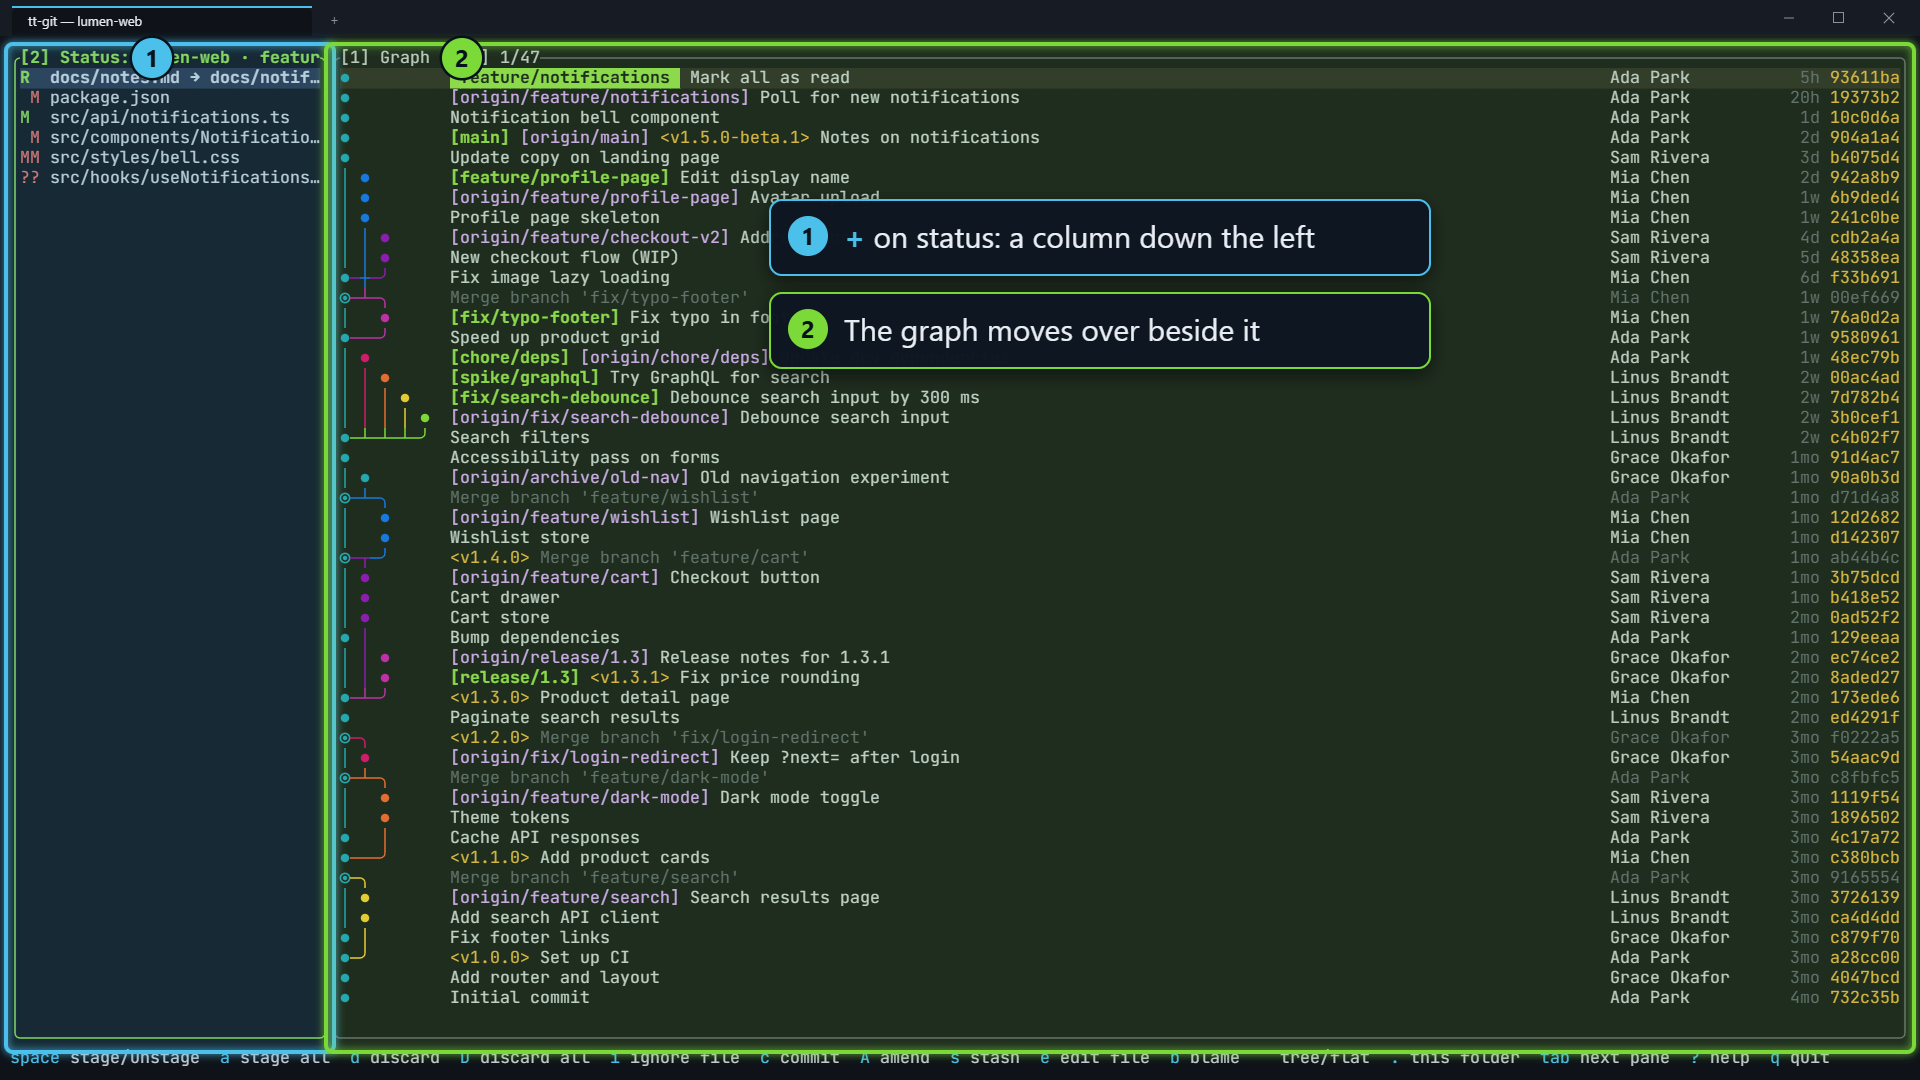
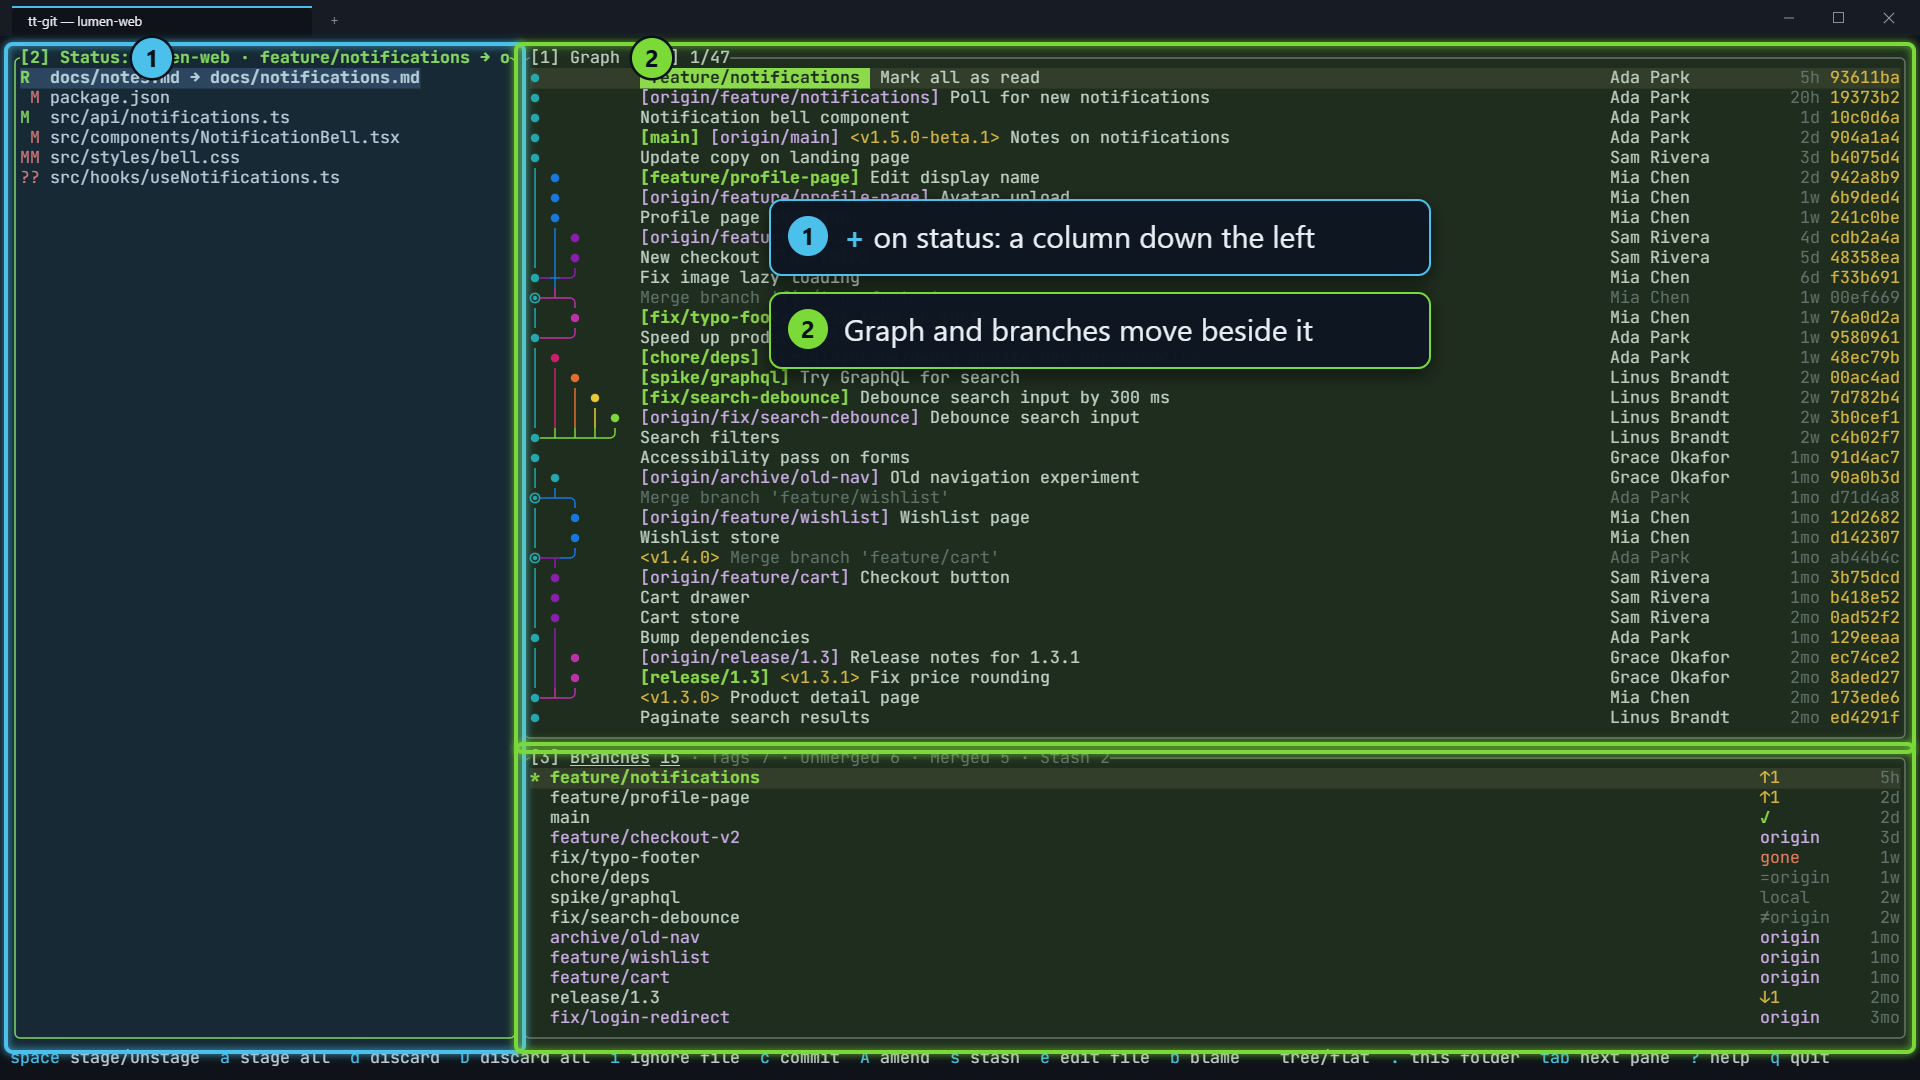
docs(status): Show branches beside the zoomed status column

Changed region(s): [[0.1562, 0.0306, 1.0, 0.9778]]

diff --git a/docs/configuration.md b/docs/configuration.md
@@ -209,8 +209,9 @@ below the diff.
 `+` zooms whichever layout you use: the focused pane (details, or else the
 graph) fills the screen, and the next `+` goes back. `space` in a fullscreen
 graph opens details below it at full width and closes it again. From the
-status pane, `+` instead puts status in a full-height column on the left (a
-sixth of the width) with the graph, and details once open, beside it.
+status pane, `+` instead puts status in a full-height column on the left
+(27% of the width) and lays out the other panes beside it as the layout has
+them.
 
 ## Key bindings
 
